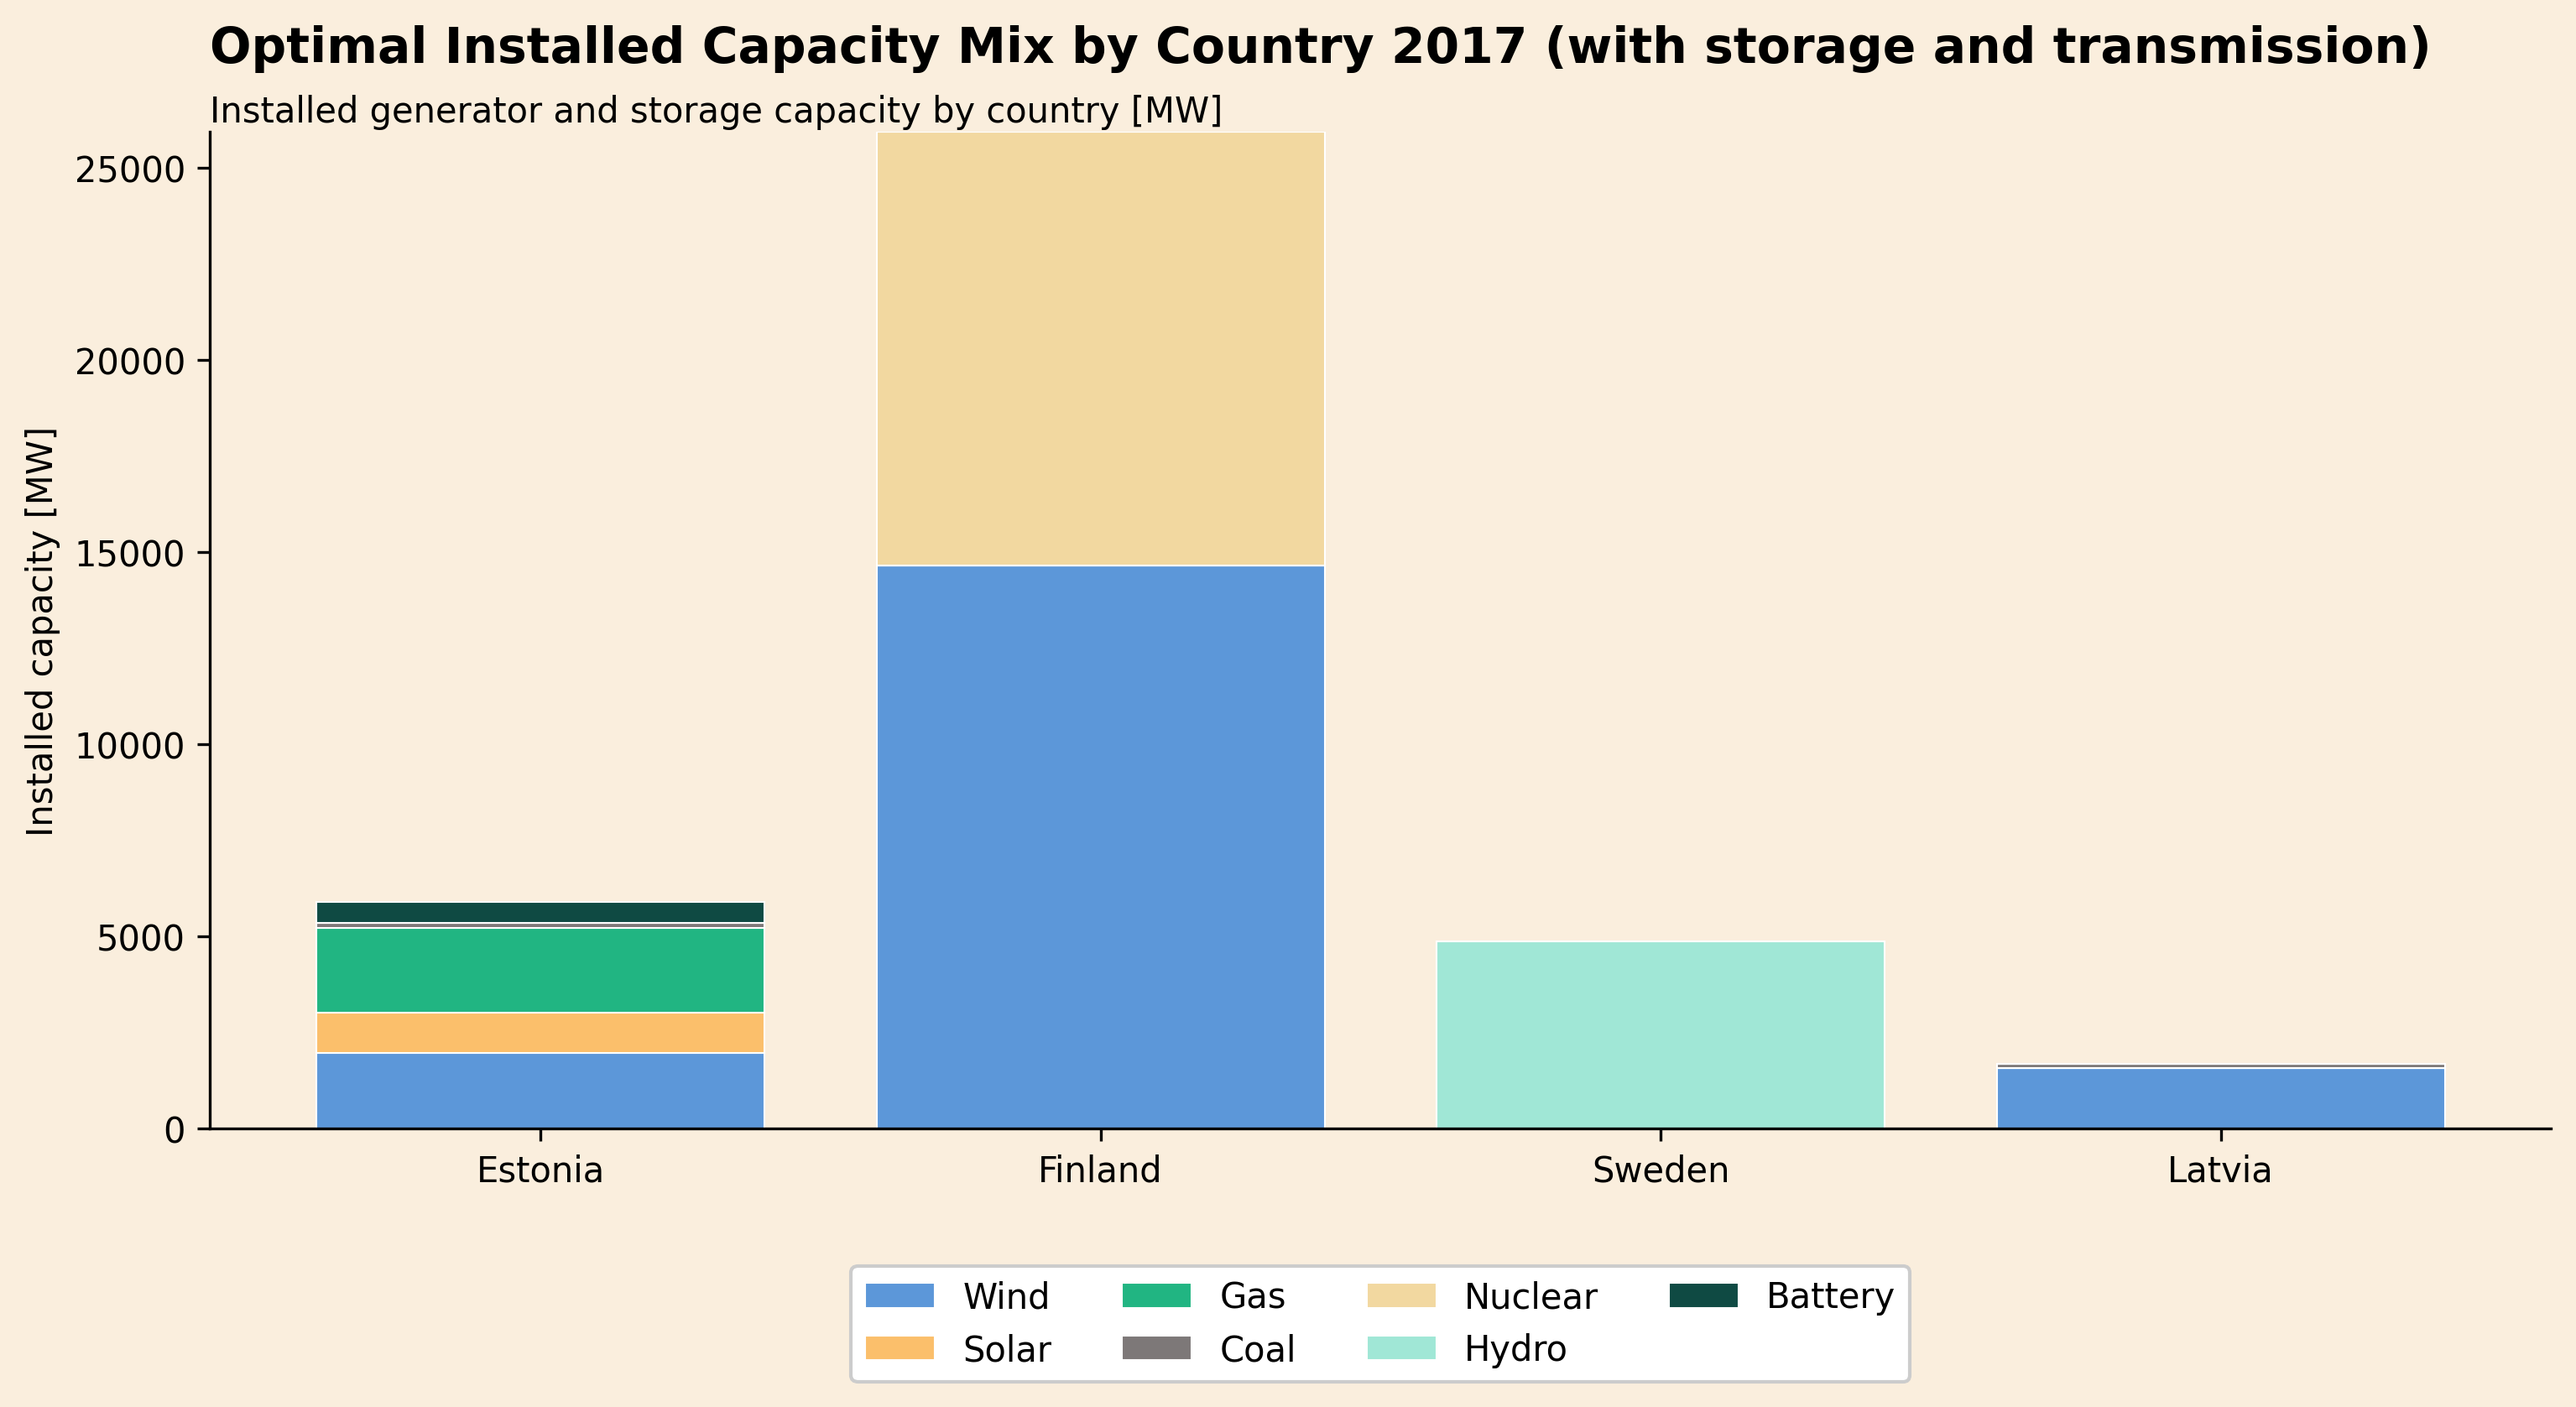
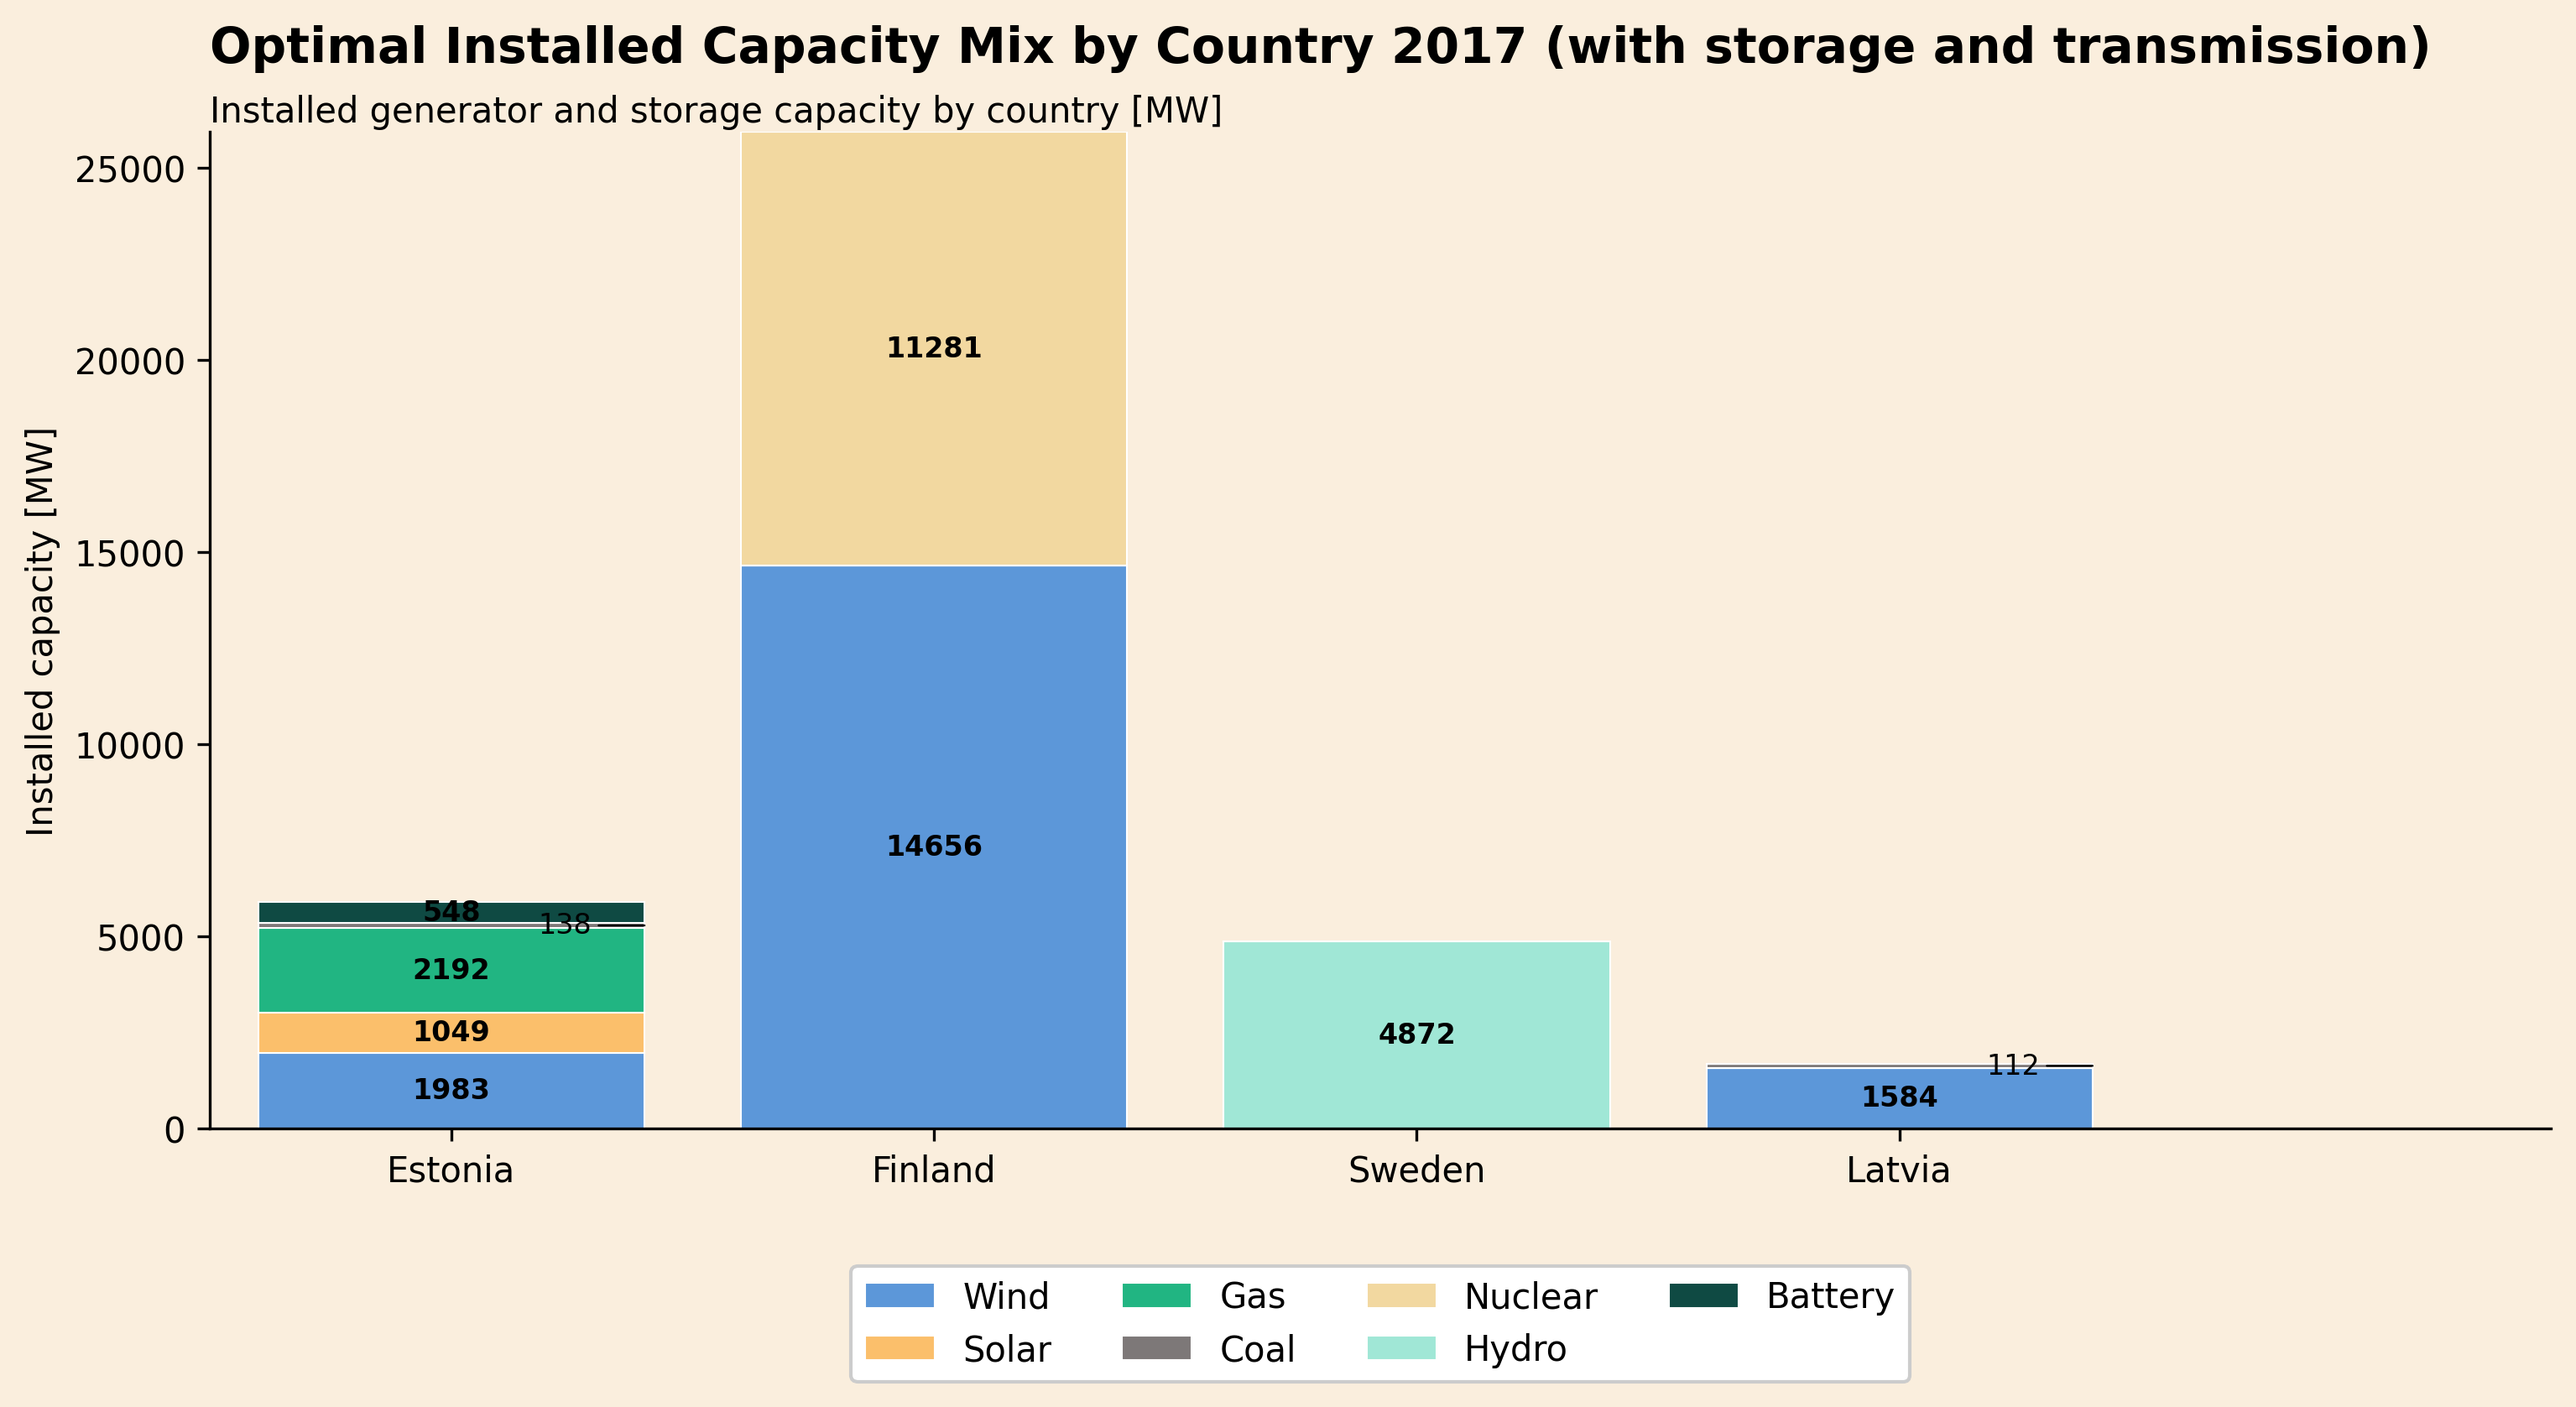
added annotation to capacity mix chart

diff --git a/plotter.py b/plotter.py
@@ -544,14 +544,27 @@ def plot_capacity_mix(capacities, title, show=False, save=True):
         if value == 0:
             continue
 
-        ax.bar(
+        bars = ax.bar(
             "Estonia",
             value,
             bottom=bottom,
             label=label,
             color=color,
-            edgecolor="white",
+            edgecolor="black",
             linewidth=0.5
+        )
+
+        # Annotate each stacked segment with its capacity value.
+        bar = bars[0]
+        ax.text(
+            bar.get_x() + bar.get_width() / 2,
+            bottom + value / 2,
+            f"{value:.0f}",
+            ha="center",
+            va="center",
+            fontsize=9,
+            color="black",
+            fontweight="bold",
         )
         bottom += value
 
@@ -672,13 +685,20 @@ def plot_capacity_mix_by_country(capacities, title, show=False, save=True):
     x = np.arange(len(countries))
     bottom = np.zeros(len(countries))
     plotted = False
+    totals = df_plot.sum(axis=1).values
+
+    inside_label_fraction = 0.08
+    inside_label_min_abs = 120.0
+    outside_x_offset = 0.18
+    outside_label_min_gap = max(np.max(totals) * 0.02, 25.0) if len(totals) > 0 else 25.0
+    outside_label_positions = {i: [] for i in range(len(countries))}
 
     for tech, color in technologies:
         values = df_plot[tech].values
         if np.all(values == 0):
             continue
 
-        ax.bar(
+        bars = ax.bar(
             x,
             values,
             bottom=bottom,
@@ -687,12 +707,58 @@ def plot_capacity_mix_by_country(capacities, title, show=False, save=True):
             edgecolor="white",
             linewidth=0.5,
         )
+
+        for i, (bar, value) in enumerate(zip(bars, values)):
+            if value <= 0:
+                continue
+
+            y_center = bottom[i] + value / 2
+            inside_threshold = max(inside_label_min_abs, inside_label_fraction * totals[i])
+
+            if value >= inside_threshold:
+                ax.text(
+                    bar.get_x() + bar.get_width() / 2,
+                    y_center,
+                    f"{value:.0f}",
+                    ha="center",
+                    va="center",
+                    fontsize=8,
+                    color="black",
+                    fontweight="bold",
+                )
+            else:
+                y_text = y_center
+                while any(abs(y_text - y_used) < outside_label_min_gap for y_used in outside_label_positions[i]):
+                    y_text += outside_label_min_gap
+                outside_label_positions[i].append(y_text)
+
+                x_center = bar.get_x() + bar.get_width() / 2
+                x_right = bar.get_x() + bar.get_width()
+
+                ax.annotate(
+                    f"{value:.0f}",
+                    xy=(x_right, y_center),
+                    xytext=(x_center + outside_x_offset, y_text),
+                    ha="left",
+                    va="center",
+                    fontsize=8,
+                    color="black",
+                    arrowprops=dict(
+                        arrowstyle="-",
+                        color="black",
+                        linewidth=0.6,
+                        shrinkA=0,
+                        shrinkB=0,
+                    ),
+                )
+
         bottom += values
         plotted = True
 
     ax.set_xticks(x)
     ax.set_xticklabels(countries)
     ax.set_ylabel("Installed capacity [MW]")
+    ax.set_xlim(-0.5, len(countries) - 0.5 + 0.85)
 
     ax.text(
         0.0, 1.07,

diff --git a/interannual.py b/interannual.py
@@ -26,6 +26,8 @@ for year in years:
     load_year = load_year.copy()
     load_year.index = hours
 
+    print(np.mean(solar_cf["EE"]))
+    print(np.mean(wind_cf["EE"]))
     print(len(load_year), len(wind_cf), len(solar_cf), len(hours))
 
     network = Network(load_year, wind_cf, solar_cf, hours)
